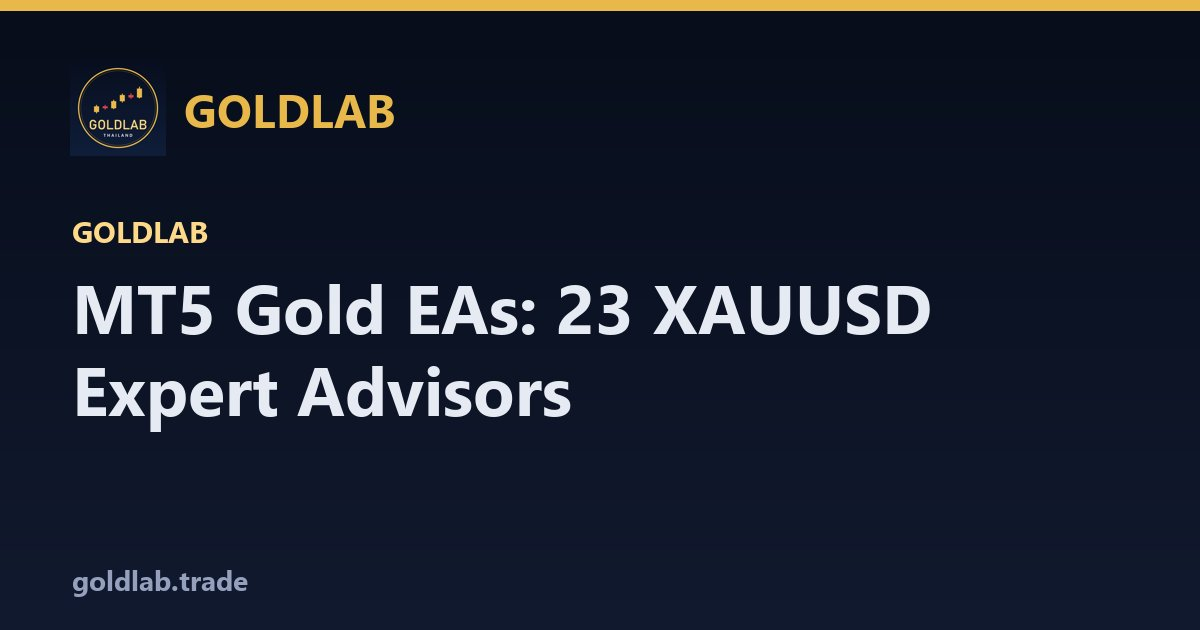
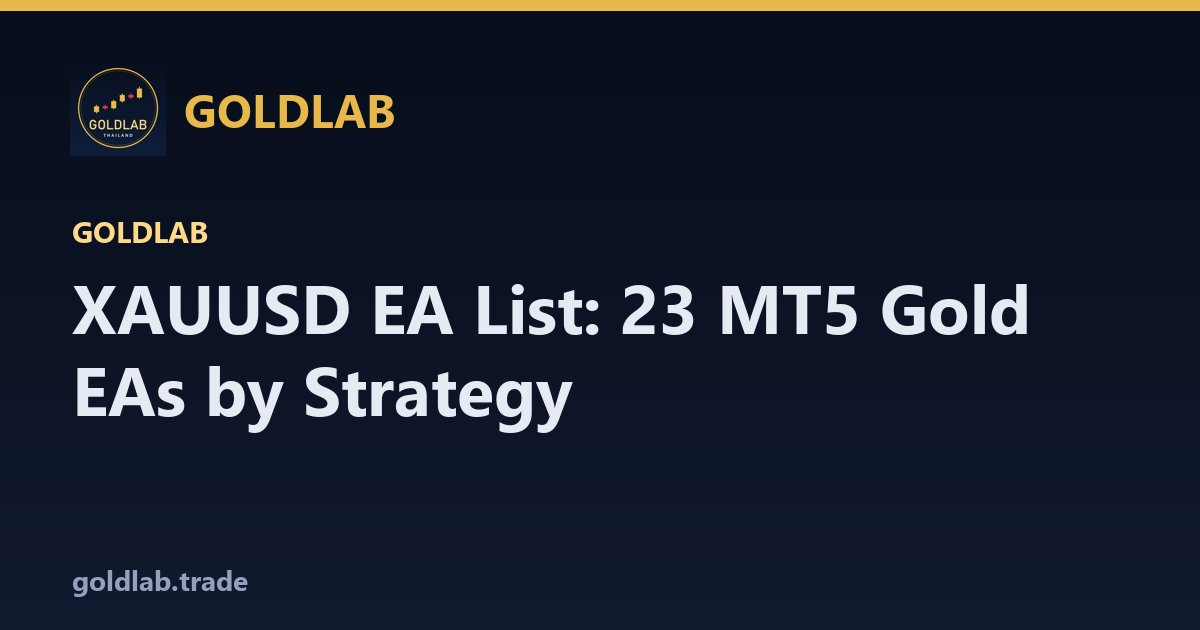
SEO: EA keywords in home titles (5 langs), EA hub titles, gold EA finder section + FAQ on /ea/

Changed region(s): [[0.0617, 0.4524, 0.8633, 0.5429], [0.0925, 0.573, 0.4933, 0.6937]]

diff --git a/ea/index.html b/ea/index.html
@@ -3,17 +3,17 @@
 <head>
 <meta charset="utf-8">
 <meta name="viewport" content="width=device-width, initial-scale=1">
-<title>MT5 Gold EAs: 23 XAUUSD Expert Advisors · GoldLab</title>
-<meta name="description" content="23 MetaTrader 5 Expert Advisors for gold (XAUUSD): breakout, trend-following and mean-reversion. Stop-loss on every trade, risk % sizing.">
-<meta property="og:title" content="MT5 Gold EAs: 23 XAUUSD Expert Advisors · GoldLab">
-<meta property="og:description" content="23 MetaTrader 5 Expert Advisors for gold (XAUUSD): breakout, trend-following and mean-reversion. Stop-loss on every trade, risk % sizing.">
+<title>XAUUSD EA List: 23 MT5 Gold EAs by Strategy · GoldLab</title>
+<meta name="description" content="23 XAUUSD EAs for MetaTrader 5: breakout, trend-following and mean-reversion gold EAs. Stop-loss on every trade, risk % sizing.">
+<meta property="og:title" content="XAUUSD EA List: 23 MT5 Gold EAs by Strategy · GoldLab">
+<meta property="og:description" content="23 XAUUSD EAs for MetaTrader 5: breakout, trend-following and mean-reversion gold EAs. Stop-loss on every trade, risk % sizing.">
 <meta property="og:image" content="https://goldlab.trade/assets/og/hub-ea.jpg">
 <meta name="twitter:card" content="summary_large_image">
 <meta property="og:url" content="https://goldlab.trade/ea/">
 <meta property="og:type" content="website">
 <meta property="og:site_name" content="GoldLab">
 <link rel="canonical" href="https://goldlab.trade/ea/">
-<script type="application/ld+json">[{"@context": "https://schema.org", "@type": "CollectionPage", "name": "MT5 Gold EAs: 23 XAUUSD Expert Advisors", "description": "23 MetaTrader 5 Expert Advisors for gold (XAUUSD): breakout, trend-following and mean-reversion. Stop-loss on every trade, risk % sizing.", "url": "https://goldlab.trade/ea/", "inLanguage": "en", "publisher": {"@type": "Organization", "name": "GoldLab", "url": "https://goldlab.trade/"}}, {"@context": "https://schema.org", "@type": "ItemList", "itemListElement": [{"@type": "ListItem", "position": 1, "url": "https://goldlab.trade/ea/london-breakout/", "name": "GoldLab London Breakout"}, {"@type": "ListItem", "position": 2, "url": "https://goldlab.trade/ea/ny-opening-range/", "name": "GoldLab NY Opening Range"}, {"@type": "ListItem", "position": 3, "url": "https://goldlab.trade/ea/bollinger-squeeze/", "name": "GoldLab Bollinger Squeeze"}, {"@type": "ListItem", "position": 4, "url": "https://goldlab.trade/ea/turtle-channel/", "name": "GoldLab Turtle Channel"}, {"@type": "ListItem", "position": 5, "url": "https://goldlab.trade/ea/inside-bar-hunter/", "name": "Inside Bar Hunter"}, {"@type": "ListItem", "position": 6, "url": "https://goldlab.trade/ea/alligator-fractal-rover/", "name": "Alligator Fractal Rover"}, {"@type": "ListItem", "position": 7, "url": "https://goldlab.trade/gold-ea/", "name": "GoldLab Multi Strategy"}, {"@type": "ListItem", "position": 8, "url": "https://goldlab.trade/gold-ea/", "name": "GoldLab Trend Pullback"}, {"@type": "ListItem", "position": 9, "url": "https://goldlab.trade/ea/supertrend-rider/", "name": "GoldLab Supertrend Rider"}, {"@type": "ListItem", "position": 10, "url": "https://goldlab.trade/ea/ichimoku-cloud/", "name": "GoldLab Ichimoku Cloud"}, {"@type": "ListItem", "position": 11, "url": "https://goldlab.trade/ea/macd-ribbon/", "name": "GoldLab MACD Ribbon"}, {"@type": "ListItem", "position": 12, "url": "https://goldlab.trade/ea/fibo-pullback/", "name": "GoldLab Fibo Pullback"}, {"@type": "ListItem", "position": 13, "url": "https://goldlab.trade/ea/stoch-hook-pilot/", "name": "Stoch Hook Pilot"}, {"@type": "ListItem", "position": 14, "url": "https://goldlab.trade/ea/sar-falcon/", "name": "SAR Falcon"}, {"@type": "ListItem", "position": 15, "url": "https://goldlab.trade/ea/heikin-titan/", "name": "Heikin Titan"}, {"@type": "ListItem", "position": 16, "url": "https://goldlab.trade/ea/cci-comet/", "name": "CCI Comet"}, {"@type": "ListItem", "position": 17, "url": "https://goldlab.trade/ea/engulf-striker/", "name": "Engulf Striker"}, {"@type": "ListItem", "position": 18, "url": "https://goldlab.trade/ea/triple-ema-arrow/", "name": "Triple EMA Arrow"}, {"@type": "ListItem", "position": 19, "url": "https://goldlab.trade/gold-ea/", "name": "GoldWick Candle Rejection"}, {"@type": "ListItem", "position": 20, "url": "https://goldlab.trade/ea/rsi-divergence/", "name": "GoldLab RSI Divergence"}, {"@type": "ListItem", "position": 21, "url": "https://goldlab.trade/ea/keltner-reversion/", "name": "GoldLab Keltner Reversion"}, {"@type": "ListItem", "position": 22, "url": "https://goldlab.trade/ea/vwap-magnet-reversion/", "name": "VWAP Magnet Reversion"}, {"@type": "ListItem", "position": 23, "url": "https://goldlab.trade/ea/pivot-sentinel/", "name": "Pivot Sentinel"}]}, {"@context": "https://schema.org", "@type": "BreadcrumbList", "itemListElement": [{"@type": "ListItem", "position": 1, "name": "GoldLab", "item": "https://goldlab.trade/"}, {"@type": "ListItem", "position": 2, "name": "EAs", "item": "https://goldlab.trade/ea/"}]}]</script>
+<script type="application/ld+json">[{"@context": "https://schema.org", "@type": "CollectionPage", "name": "XAUUSD EA List: 23 MT5 Gold EAs by Strategy", "description": "23 XAUUSD EAs for MetaTrader 5: breakout, trend-following and mean-reversion gold EAs. Stop-loss on every trade, risk % sizing.", "url": "https://goldlab.trade/ea/", "inLanguage": "en", "publisher": {"@type": "Organization", "name": "GoldLab", "url": "https://goldlab.trade/"}}, {"@context": "https://schema.org", "@type": "ItemList", "itemListElement": [{"@type": "ListItem", "position": 1, "url": "https://goldlab.trade/ea/london-breakout/", "name": "GoldLab London Breakout"}, {"@type": "ListItem", "position": 2, "url": "https://goldlab.trade/ea/ny-opening-range/", "name": "GoldLab NY Opening Range"}, {"@type": "ListItem", "position": 3, "url": "https://goldlab.trade/ea/bollinger-squeeze/", "name": "GoldLab Bollinger Squeeze"}, {"@type": "ListItem", "position": 4, "url": "https://goldlab.trade/ea/turtle-channel/", "name": "GoldLab Turtle Channel"}, {"@type": "ListItem", "position": 5, "url": "https://goldlab.trade/ea/inside-bar-hunter/", "name": "Inside Bar Hunter"}, {"@type": "ListItem", "position": 6, "url": "https://goldlab.trade/ea/alligator-fractal-rover/", "name": "Alligator Fractal Rover"}, {"@type": "ListItem", "position": 7, "url": "https://goldlab.trade/gold-ea/", "name": "GoldLab Multi Strategy"}, {"@type": "ListItem", "position": 8, "url": "https://goldlab.trade/gold-ea/", "name": "GoldLab Trend Pullback"}, {"@type": "ListItem", "position": 9, "url": "https://goldlab.trade/ea/supertrend-rider/", "name": "GoldLab Supertrend Rider"}, {"@type": "ListItem", "position": 10, "url": "https://goldlab.trade/ea/ichimoku-cloud/", "name": "GoldLab Ichimoku Cloud"}, {"@type": "ListItem", "position": 11, "url": "https://goldlab.trade/ea/macd-ribbon/", "name": "GoldLab MACD Ribbon"}, {"@type": "ListItem", "position": 12, "url": "https://goldlab.trade/ea/fibo-pullback/", "name": "GoldLab Fibo Pullback"}, {"@type": "ListItem", "position": 13, "url": "https://goldlab.trade/ea/stoch-hook-pilot/", "name": "Stoch Hook Pilot"}, {"@type": "ListItem", "position": 14, "url": "https://goldlab.trade/ea/sar-falcon/", "name": "SAR Falcon"}, {"@type": "ListItem", "position": 15, "url": "https://goldlab.trade/ea/heikin-titan/", "name": "Heikin Titan"}, {"@type": "ListItem", "position": 16, "url": "https://goldlab.trade/ea/cci-comet/", "name": "CCI Comet"}, {"@type": "ListItem", "position": 17, "url": "https://goldlab.trade/ea/engulf-striker/", "name": "Engulf Striker"}, {"@type": "ListItem", "position": 18, "url": "https://goldlab.trade/ea/triple-ema-arrow/", "name": "Triple EMA Arrow"}, {"@type": "ListItem", "position": 19, "url": "https://goldlab.trade/gold-ea/", "name": "GoldWick Candle Rejection"}, {"@type": "ListItem", "position": 20, "url": "https://goldlab.trade/ea/rsi-divergence/", "name": "GoldLab RSI Divergence"}, {"@type": "ListItem", "position": 21, "url": "https://goldlab.trade/ea/keltner-reversion/", "name": "GoldLab Keltner Reversion"}, {"@type": "ListItem", "position": 22, "url": "https://goldlab.trade/ea/vwap-magnet-reversion/", "name": "VWAP Magnet Reversion"}, {"@type": "ListItem", "position": 23, "url": "https://goldlab.trade/ea/pivot-sentinel/", "name": "Pivot Sentinel"}]}, {"@context": "https://schema.org", "@type": "FAQPage", "mainEntity": [{"@type": "Question", "name": "What is a gold EA?", "acceptedAnswer": {"@type": "Answer", "text": "A gold EA (Expert Advisor) is a program for MetaTrader that opens, manages and closes XAUUSD trades automatically from fixed rules, such as a breakout of the Asian range or a pullback in a trend."}}, {"@type": "Question", "name": "Do these XAUUSD EAs work on MT4?", "acceptedAnswer": {"@type": "Answer", "text": "No. GoldLab EAs are built for MetaTrader 5 (.ex5) only. Any MT5 broker that offers XAUUSD works, on a hedging or netting account."}}, {"@type": "Question", "name": "Do GoldLab gold EAs use martingale or grid?", "acceptedAnswer": {"@type": "Answer", "text": "No. Each trade has its own stop-loss, the lot size comes from your risk % or a fixed lot, and a daily loss limit stops trading for the day."}}, {"@type": "Question", "name": "Can I use a gold EA on a prop firm account?", "acceptedAnswer": {"@type": "Answer", "text": "The fixed stop-loss and daily loss limit make it possible to set the EA inside common prop firm rules, but every firm has its own rules on EAs, news trading and drawdown. Check them first and test on the firm's demo. No EA can guarantee passing a challenge."}}, {"@type": "Question", "name": "Which timeframe is best for a gold EA?", "acceptedAnswer": {"@type": "Answer", "text": "It depends on the strategy: scalping and session breakouts use M1 to M15, most trend and reversion EAs here use H1, and swing systems use H4. Each EA page lists its recommended timeframe."}}, {"@type": "Question", "name": "Is there a free gold EA demo?", "acceptedAnswer": {"@type": "Answer", "text": "Yes. MQL5 Market products have a free demo you can run in the MT5 Strategy Tester on your broker's own XAUUSD data before buying."}}, {"@type": "Question", "name": "Do I need a VPS to run an EA?", "acceptedAnswer": {"@type": "Answer", "text": "An EA only trades while MetaTrader 5 is open and connected, so a VPS close to your broker's server is recommended for 24/5 running."}}]}, {"@context": "https://schema.org", "@type": "BreadcrumbList", "itemListElement": [{"@type": "ListItem", "position": 1, "name": "GoldLab", "item": "https://goldlab.trade/"}, {"@type": "ListItem", "position": 2, "name": "EAs", "item": "https://goldlab.trade/ea/"}]}]</script>
 <meta name="theme-color" content="#070d1a">
 <meta name="google-site-verification" content="AoyS69iYM0KUBS375ShKPWs4FY5b3LdPtCelTJK63AM" />
 <link rel="alternate" hreflang="en" href="https://goldlab.trade/ea/">
@@ -53,6 +53,33 @@
   <li><b>Trend-following</b> EAs aim to stay in larger moves and trail the stop; they struggle in ranges.</li>
   <li><b>Mean-reversion</b> EAs trade back toward an average in quiet markets and stand aside in strong trends.</li></ul>
   <p>Running two different styles can spread trades across market conditions - use a different magic number for each. Test any EA in the Strategy Tester with your broker's data, then on a demo account. Related: <a href="../learn/best-timeframe-gold-trading/">best timeframe for gold trading</a>, <a href="../learn/one-percent-rule-gold/">the 1% risk rule</a>, <a href="../tools/gold-lot-size-calculator/">XAUUSD lot size calculator</a>.</p>
+  <h2>Find a gold EA by what you need</h2>
+  <ul>
+  <li><b>Gold scalping EA (M1-M5):</b> the <a href="../gold-ea/">GoldLab Multi Strategy EA</a> runs five strategies from M1 to H1, and the <a href="../ea/ny-opening-range/">NY opening range breakout EA</a> signals on M5.</li>
+  <li><b>XAUUSD breakout EA:</b> <a href="../ea/london-breakout/">London breakout EA</a>, <a href="../ea/bollinger-squeeze/">Bollinger squeeze EA</a>, <a href="../ea/turtle-channel/">turtle trading EA</a> and <a href="../ea/inside-bar-hunter/">inside bar EA</a>.</li>
+  <li><b>Gold trend following EA:</b> <a href="../ea/supertrend-rider/">Supertrend EA</a>, <a href="../ea/ichimoku-cloud/">Ichimoku EA</a>, <a href="../ea/macd-ribbon/">MACD EA</a>, <a href="../ea/triple-ema-arrow/">EMA crossover EA</a> and <a href="../ea/sar-falcon/">Parabolic SAR EA</a>.</li>
+  <li><b>Mean reversion EA for gold:</b> <a href="../ea/keltner-reversion/">Keltner channel EA</a>, <a href="../ea/vwap-magnet-reversion/">VWAP EA</a>, <a href="../ea/rsi-divergence/">RSI divergence EA</a> and <a href="../ea/pivot-sentinel/">pivot point EA</a>.</li>
+  <li><b>Indicator-based gold EAs:</b> <a href="../ea/stoch-hook-pilot/">Stochastic EA</a>, <a href="../ea/cci-comet/">CCI EA</a>, <a href="../ea/fibo-pullback/">Fibonacci EA</a>, <a href="../ea/heikin-titan/">Heikin Ashi EA</a>, <a href="../ea/engulf-striker/">engulfing candle EA</a> and <a href="../ea/alligator-fractal-rover/">Alligator EA</a>.</li>
+  <li><b>Swing trading gold EA (H4-D1):</b> <a href="../ea/turtle-channel/">turtle trading EA</a> and <a href="../ea/ichimoku-cloud/">Ichimoku EA</a> on H4.</li>
+  <li><b>No martingale, no grid gold EA:</b> every GoldLab EA - a stop-loss on every order, risk % lot sizing and a daily loss limit.</li>
+  </ul>
+  <section class="faq">
+    <h2>Gold EA FAQ</h2>
+    <h3>What is a gold EA?</h3>
+    <p>A gold EA (Expert Advisor) is a program for MetaTrader that opens, manages and closes XAUUSD trades automatically from fixed rules, such as a breakout of the Asian range or a pullback in a trend.</p>
+    <h3>Do these XAUUSD EAs work on MT4?</h3>
+    <p>No. GoldLab EAs are built for MetaTrader 5 (.ex5) only. Any MT5 broker that offers XAUUSD works, on a hedging or netting account.</p>
+    <h3>Do GoldLab gold EAs use martingale or grid?</h3>
+    <p>No. Each trade has its own stop-loss, the lot size comes from your risk % or a fixed lot, and a daily loss limit stops trading for the day.</p>
+    <h3>Can I use a gold EA on a prop firm account?</h3>
+    <p>The fixed stop-loss and daily loss limit make it possible to set the EA inside common prop firm rules, but every firm has its own rules on EAs, news trading and drawdown. Check them first and test on the firm's demo. No EA can guarantee passing a challenge.</p>
+    <h3>Which timeframe is best for a gold EA?</h3>
+    <p>It depends on the strategy: scalping and session breakouts use M1 to M15, most trend and reversion EAs here use H1, and swing systems use H4. Each EA page lists its recommended timeframe.</p>
+    <h3>Is there a free gold EA demo?</h3>
+    <p>Yes. MQL5 Market products have a free demo you can run in the MT5 Strategy Tester on your broker's own XAUUSD data before buying.</p>
+    <h3>Do I need a VPS to run an EA?</h3>
+    <p>An EA only trades while MetaTrader 5 is open and connected, so a VPS close to your broker's server is recommended for 24/5 running.</p>
+  </section>
   <p class="note-small">No trading system wins every trade, and past or backtested results do not guarantee future results. Trading gold and CFDs is high risk and you can lose your capital.</p></article>
 </div></main>
 

diff --git a/th/index.html b/th/index.html
@@ -3,17 +3,17 @@
 <head>
 <meta charset="utf-8">
 <meta name="viewport" content="width=device-width, initial-scale=1">
-<title>GoldLab · แนวรับแนวต้านทองคำ XAUUSD รายวัน และบทเรียนเทรดทอง</title>
-<meta name="description" content="ระดับ Pivot ทองคำ (XAUUSD) รายวัน คำนวณจากข้อมูลราคาจริง พร้อมบทเรียนฟรีเรื่องการอ่านกราฟและบริหารความเสี่ยง เพื่อการศึกษา ไม่ใช่สัญญาณเทรด">
-<meta property="og:title" content="GoldLab · แนวรับแนวต้านทองคำ XAUUSD รายวัน และบทเรียนเทรดทอง">
-<meta property="og:description" content="ระดับ Pivot ทองคำ (XAUUSD) รายวัน คำนวณจากข้อมูลราคาจริง พร้อมบทเรียนฟรีเรื่องการอ่านกราฟและบริหารความเสี่ยง เพื่อการศึกษา ไม่ใช่สัญญาณเทรด">
+<title>GoldLab · EA เทรดทอง MT5 และแนวรับแนวต้าน XAUUSD รายวัน</title>
+<meta name="description" content="EA เทรดทองคำ (XAUUSD) สำหรับ MetaTrader 5 จาก GoldLab ตั้ง Stop Loss ทุกออเดอร์ พร้อมแนวรับแนวต้านทองรายวันและบทเรียนบริหารความเสี่ยงฟรี ไม่ใช่สัญญาณเทรด">
+<meta property="og:title" content="GoldLab · EA เทรดทอง MT5 และแนวรับแนวต้าน XAUUSD รายวัน">
+<meta property="og:description" content="EA เทรดทองคำ (XAUUSD) สำหรับ MetaTrader 5 จาก GoldLab ตั้ง Stop Loss ทุกออเดอร์ พร้อมแนวรับแนวต้านทองรายวันและบทเรียนบริหารความเสี่ยงฟรี ไม่ใช่สัญญาณเทรด">
 <meta property="og:image" content="https://goldlab.trade/assets/logo.png">
 <meta name="twitter:card" content="summary_large_image">
 <meta property="og:url" content="https://goldlab.trade/th/">
 <meta property="og:type" content="website">
 <meta property="og:site_name" content="GoldLab">
 <link rel="canonical" href="https://goldlab.trade/th/">
-<script type="application/ld+json">[{"@context": "https://schema.org", "@type": "WebSite", "name": "GoldLab", "url": "https://goldlab.trade/", "inLanguage": "th", "description": "ระดับ Pivot ทองคำ (XAUUSD) รายวัน คำนวณจากข้อมูลราคาจริง พร้อมบทเรียนฟรีเรื่องการอ่านกราฟและบริหารความเสี่ยง เพื่อการศึกษา ไม่ใช่สัญญาณเทรด"}, {"@context": "https://schema.org", "@type": "Organization", "name": "GoldLab", "url": "https://goldlab.trade/", "logo": "https://goldlab.trade/assets/logo.png", "sameAs": ["https://www.facebook.com/profile.php?id=61595254621291", "https://line.me/R/ti/p/@065qwjtk"]}]</script>
+<script type="application/ld+json">[{"@context": "https://schema.org", "@type": "WebSite", "name": "GoldLab", "url": "https://goldlab.trade/", "inLanguage": "th", "description": "EA เทรดทองคำ (XAUUSD) สำหรับ MetaTrader 5 จาก GoldLab ตั้ง Stop Loss ทุกออเดอร์ พร้อมแนวรับแนวต้านทองรายวันและบทเรียนบริหารความเสี่ยงฟรี ไม่ใช่สัญญาณเทรด"}, {"@context": "https://schema.org", "@type": "Organization", "name": "GoldLab", "url": "https://goldlab.trade/", "logo": "https://goldlab.trade/assets/logo.png", "sameAs": ["https://www.facebook.com/profile.php?id=61595254621291", "https://line.me/R/ti/p/@065qwjtk"]}]</script>
 <meta name="theme-color" content="#070d1a">
 <meta name="google-site-verification" content="AoyS69iYM0KUBS375ShKPWs4FY5b3LdPtCelTJK63AM" />
 <link rel="alternate" hreflang="en" href="https://goldlab.trade/">
@@ -53,7 +53,7 @@
     <div>
       <span class="eyebrow">อัปเดตทุกวันทำการ</span>
       <h1>อ่านกราฟทองคำ <em>บริหารความเสี่ยงให้เป็น</em></h1>
-      <p class="lead">GoldLab เผยแพร่แนวรับแนวต้านทองคำ XAUUSD ทุกวัน คำนวณจากข้อมูลราคาจริง และสอนว่าเทรดเดอร์ใช้ระดับราคาเหล่านี้อย่างไร ไม่โอ้อวด ไม่ให้สัญญาณ ไม่สัญญาผลกำไร</p>
+      <p class="lead">GoldLab เผยแพร่แนวรับแนวต้านทองคำ XAUUSD ทุกวัน คำนวณจากข้อมูลราคาจริง และสอนว่าเทรดเดอร์ใช้ระดับราคาเหล่านี้อย่างไร ไม่โอ้อวด ไม่ให้สัญญาณ ไม่สัญญาผลกำไร และพัฒนา EA เทรดทอง MT5 (XAUUSD) ที่ตั้ง Stop Loss ทุกออเดอร์</p>
       <div class="cta">
         <a class="btn btn-gold" href="#levels">ดูระดับราคาวันนี้ →</a>
         <a class="btn btn-ghost" href="#lessons">เริ่มเรียน</a>

diff --git a/vi/index.html b/vi/index.html
@@ -3,17 +3,17 @@
 <head>
 <meta charset="utf-8">
 <meta name="viewport" content="width=device-width, initial-scale=1">
-<title>GoldLab · Mức giá XAUUSD hằng ngày &amp; bài học giao dịch vàng</title>
-<meta name="description" content="Các mức pivot vàng (XAUUSD) hằng ngày tính từ dữ liệu thị trường thực, cùng bài học miễn phí về đọc biểu đồ và quản lý rủi ro. Chỉ mang tính giáo dục, không phải tín hiệu.">
-<meta property="og:title" content="GoldLab · Mức giá XAUUSD hằng ngày &amp; bài học giao dịch vàng">
-<meta property="og:description" content="Các mức pivot vàng (XAUUSD) hằng ngày tính từ dữ liệu thị trường thực, cùng bài học miễn phí về đọc biểu đồ và quản lý rủi ro. Chỉ mang tính giáo dục, không phải tín hiệu.">
+<title>GoldLab: EA vàng MT5 &amp; mức giá XAUUSD hằng ngày</title>
+<meta name="description" content="EA vàng cho MetaTrader 5 (Expert Advisor XAUUSD) đặt stop-loss cho mọi lệnh, cùng các mức pivot vàng hằng ngày và bài học quản lý rủi ro miễn phí. Không phải tín hiệu.">
+<meta property="og:title" content="GoldLab: EA vàng MT5 &amp; mức giá XAUUSD hằng ngày">
+<meta property="og:description" content="EA vàng cho MetaTrader 5 (Expert Advisor XAUUSD) đặt stop-loss cho mọi lệnh, cùng các mức pivot vàng hằng ngày và bài học quản lý rủi ro miễn phí. Không phải tín hiệu.">
 <meta property="og:image" content="https://goldlab.trade/assets/logo.png">
 <meta name="twitter:card" content="summary_large_image">
 <meta property="og:url" content="https://goldlab.trade/vi/">
 <meta property="og:type" content="website">
 <meta property="og:site_name" content="GoldLab">
 <link rel="canonical" href="https://goldlab.trade/vi/">
-<script type="application/ld+json">[{"@context": "https://schema.org", "@type": "WebSite", "name": "GoldLab", "url": "https://goldlab.trade/", "inLanguage": "vi", "description": "Các mức pivot vàng (XAUUSD) hằng ngày tính từ dữ liệu thị trường thực, cùng bài học miễn phí về đọc biểu đồ và quản lý rủi ro. Chỉ mang tính giáo dục, không phải tín hiệu."}, {"@context": "https://schema.org", "@type": "Organization", "name": "GoldLab", "url": "https://goldlab.trade/", "logo": "https://goldlab.trade/assets/logo.png", "sameAs": ["https://www.facebook.com/profile.php?id=61595254621291", "https://line.me/R/ti/p/@065qwjtk"]}]</script>
+<script type="application/ld+json">[{"@context": "https://schema.org", "@type": "WebSite", "name": "GoldLab", "url": "https://goldlab.trade/", "inLanguage": "vi", "description": "EA vàng cho MetaTrader 5 (Expert Advisor XAUUSD) đặt stop-loss cho mọi lệnh, cùng các mức pivot vàng hằng ngày và bài học quản lý rủi ro miễn phí. Không phải tín hiệu."}, {"@context": "https://schema.org", "@type": "Organization", "name": "GoldLab", "url": "https://goldlab.trade/", "logo": "https://goldlab.trade/assets/logo.png", "sameAs": ["https://www.facebook.com/profile.php?id=61595254621291", "https://line.me/R/ti/p/@065qwjtk"]}]</script>
 <meta name="theme-color" content="#070d1a">
 <meta name="google-site-verification" content="AoyS69iYM0KUBS375ShKPWs4FY5b3LdPtCelTJK63AM" />
 <link rel="alternate" hreflang="en" href="https://goldlab.trade/">
@@ -53,7 +53,7 @@
     <div>
       <span class="eyebrow">Cập nhật mỗi ngày giao dịch</span>
       <h1>Đọc biểu đồ vàng. <em>Quản lý rủi ro.</em></h1>
-      <p class="lead">GoldLab công bố các mức hỗ trợ và kháng cự XAUUSD hằng ngày, tính từ dữ liệu thị trường thực, và hướng dẫn cách nhà giao dịch sử dụng chúng. Không thổi phồng, không tín hiệu, không hứa hẹn.</p>
+      <p class="lead">GoldLab công bố các mức hỗ trợ và kháng cự XAUUSD hằng ngày, tính từ dữ liệu thị trường thực, và hướng dẫn cách nhà giao dịch sử dụng chúng. Không thổi phồng, không tín hiệu, không hứa hẹn. Chúng tôi cũng phát triển EA vàng MT5 (XAUUSD) đặt stop-loss cho mọi lệnh.</p>
       <div class="cta">
         <a class="btn btn-gold" href="#levels">Xem mức giá hôm nay →</a>
         <a class="btn btn-ghost" href="#lessons">Bắt đầu học</a>

diff --git a/es/index.html b/es/index.html
@@ -3,17 +3,17 @@
 <head>
 <meta charset="utf-8">
 <meta name="viewport" content="width=device-width, initial-scale=1">
-<title>GoldLab · Niveles diarios de XAUUSD y lecciones de trading de oro</title>
-<meta name="description" content="Niveles pivote diarios del oro (XAUUSD) calculados con datos reales del mercado, y lecciones gratuitas sobre lectura de gráficos y gestión del riesgo. Solo educación, sin señales.">
-<meta property="og:title" content="GoldLab · Niveles diarios de XAUUSD y lecciones de trading de oro">
-<meta property="og:description" content="Niveles pivote diarios del oro (XAUUSD) calculados con datos reales del mercado, y lecciones gratuitas sobre lectura de gráficos y gestión del riesgo. Solo educación, sin señales.">
+<title>GoldLab: EA de oro para MT5 y niveles diarios de XAUUSD</title>
+<meta name="description" content="EAs de oro para MetaTrader 5 (asesores expertos XAUUSD) con stop-loss en cada operación, más niveles pivote diarios del oro y lecciones de riesgo gratis. Sin señales.">
+<meta property="og:title" content="GoldLab: EA de oro para MT5 y niveles diarios de XAUUSD">
+<meta property="og:description" content="EAs de oro para MetaTrader 5 (asesores expertos XAUUSD) con stop-loss en cada operación, más niveles pivote diarios del oro y lecciones de riesgo gratis. Sin señales.">
 <meta property="og:image" content="https://goldlab.trade/assets/logo.png">
 <meta name="twitter:card" content="summary_large_image">
 <meta property="og:url" content="https://goldlab.trade/es/">
 <meta property="og:type" content="website">
 <meta property="og:site_name" content="GoldLab">
 <link rel="canonical" href="https://goldlab.trade/es/">
-<script type="application/ld+json">[{"@context": "https://schema.org", "@type": "WebSite", "name": "GoldLab", "url": "https://goldlab.trade/", "inLanguage": "es", "description": "Niveles pivote diarios del oro (XAUUSD) calculados con datos reales del mercado, y lecciones gratuitas sobre lectura de gráficos y gestión del riesgo. Solo educación, sin señales."}, {"@context": "https://schema.org", "@type": "Organization", "name": "GoldLab", "url": "https://goldlab.trade/", "logo": "https://goldlab.trade/assets/logo.png", "sameAs": ["https://www.facebook.com/profile.php?id=61595254621291", "https://line.me/R/ti/p/@065qwjtk"]}]</script>
+<script type="application/ld+json">[{"@context": "https://schema.org", "@type": "WebSite", "name": "GoldLab", "url": "https://goldlab.trade/", "inLanguage": "es", "description": "EAs de oro para MetaTrader 5 (asesores expertos XAUUSD) con stop-loss en cada operación, más niveles pivote diarios del oro y lecciones de riesgo gratis. Sin señales."}, {"@context": "https://schema.org", "@type": "Organization", "name": "GoldLab", "url": "https://goldlab.trade/", "logo": "https://goldlab.trade/assets/logo.png", "sameAs": ["https://www.facebook.com/profile.php?id=61595254621291", "https://line.me/R/ti/p/@065qwjtk"]}]</script>
 <meta name="theme-color" content="#070d1a">
 <meta name="google-site-verification" content="AoyS69iYM0KUBS375ShKPWs4FY5b3LdPtCelTJK63AM" />
 <link rel="alternate" hreflang="en" href="https://goldlab.trade/">
@@ -53,7 +53,7 @@
     <div>
       <span class="eyebrow">Actualizado cada día hábil</span>
       <h1>Lee el gráfico del oro. <em>Gestiona el riesgo.</em></h1>
-      <p class="lead">GoldLab publica cada día los soportes y resistencias de XAUUSD calculados con datos reales del mercado, y enseña cómo los usan los traders. Sin exageraciones, sin señales, sin promesas.</p>
+      <p class="lead">GoldLab publica cada día los soportes y resistencias de XAUUSD calculados con datos reales del mercado, y enseña cómo los usan los traders. Sin exageraciones, sin señales, sin promesas. También creamos EAs de oro para MT5 (XAUUSD) con stop-loss en cada operación.</p>
       <div class="cta">
         <a class="btn btn-gold" href="#levels">Ver los niveles de hoy →</a>
         <a class="btn btn-ghost" href="#lessons">Empezar a aprender</a>

diff --git a/id/index.html b/id/index.html
@@ -3,17 +3,17 @@
 <head>
 <meta charset="utf-8">
 <meta name="viewport" content="width=device-width, initial-scale=1">
-<title>GoldLab · Level XAUUSD harian &amp; pelajaran trading emas</title>
-<meta name="description" content="Level pivot emas (XAUUSD) harian yang dihitung dari data pasar nyata, plus pelajaran gratis membaca grafik dan mengelola risiko. Hanya edukasi, bukan sinyal.">
-<meta property="og:title" content="GoldLab · Level XAUUSD harian &amp; pelajaran trading emas">
-<meta property="og:description" content="Level pivot emas (XAUUSD) harian yang dihitung dari data pasar nyata, plus pelajaran gratis membaca grafik dan mengelola risiko. Hanya edukasi, bukan sinyal.">
+<title>GoldLab: EA Emas MT5 &amp; Level XAUUSD Harian</title>
+<meta name="description" content="EA emas untuk MetaTrader 5 (Expert Advisor XAUUSD) dengan stop-loss di setiap transaksi, plus level pivot emas harian dan pelajaran risiko gratis. Bukan sinyal.">
+<meta property="og:title" content="GoldLab: EA Emas MT5 &amp; Level XAUUSD Harian">
+<meta property="og:description" content="EA emas untuk MetaTrader 5 (Expert Advisor XAUUSD) dengan stop-loss di setiap transaksi, plus level pivot emas harian dan pelajaran risiko gratis. Bukan sinyal.">
 <meta property="og:image" content="https://goldlab.trade/assets/logo.png">
 <meta name="twitter:card" content="summary_large_image">
 <meta property="og:url" content="https://goldlab.trade/id/">
 <meta property="og:type" content="website">
 <meta property="og:site_name" content="GoldLab">
 <link rel="canonical" href="https://goldlab.trade/id/">
-<script type="application/ld+json">[{"@context": "https://schema.org", "@type": "WebSite", "name": "GoldLab", "url": "https://goldlab.trade/", "inLanguage": "id", "description": "Level pivot emas (XAUUSD) harian yang dihitung dari data pasar nyata, plus pelajaran gratis membaca grafik dan mengelola risiko. Hanya edukasi, bukan sinyal."}, {"@context": "https://schema.org", "@type": "Organization", "name": "GoldLab", "url": "https://goldlab.trade/", "logo": "https://goldlab.trade/assets/logo.png", "sameAs": ["https://www.facebook.com/profile.php?id=61595254621291", "https://line.me/R/ti/p/@065qwjtk"]}]</script>
+<script type="application/ld+json">[{"@context": "https://schema.org", "@type": "WebSite", "name": "GoldLab", "url": "https://goldlab.trade/", "inLanguage": "id", "description": "EA emas untuk MetaTrader 5 (Expert Advisor XAUUSD) dengan stop-loss di setiap transaksi, plus level pivot emas harian dan pelajaran risiko gratis. Bukan sinyal."}, {"@context": "https://schema.org", "@type": "Organization", "name": "GoldLab", "url": "https://goldlab.trade/", "logo": "https://goldlab.trade/assets/logo.png", "sameAs": ["https://www.facebook.com/profile.php?id=61595254621291", "https://line.me/R/ti/p/@065qwjtk"]}]</script>
 <meta name="theme-color" content="#070d1a">
 <meta name="google-site-verification" content="AoyS69iYM0KUBS375ShKPWs4FY5b3LdPtCelTJK63AM" />
 <link rel="alternate" hreflang="en" href="https://goldlab.trade/">
@@ -53,7 +53,7 @@
     <div>
       <span class="eyebrow">Diperbarui setiap hari perdagangan</span>
       <h1>Baca grafik emas. <em>Kelola risikonya.</em></h1>
-      <p class="lead">GoldLab menerbitkan level support dan resistance XAUUSD setiap hari dari data pasar nyata, dan mengajarkan cara trader menggunakannya. Tanpa sensasi, tanpa sinyal, tanpa janji.</p>
+      <p class="lead">GoldLab menerbitkan level support dan resistance XAUUSD setiap hari dari data pasar nyata, dan mengajarkan cara trader menggunakannya. Tanpa sensasi, tanpa sinyal, tanpa janji. Kami juga membuat EA emas MT5 (XAUUSD) dengan stop-loss di setiap transaksi.</p>
       <div class="cta">
         <a class="btn btn-gold" href="#levels">Lihat level hari ini →</a>
         <a class="btn btn-ghost" href="#lessons">Mulai belajar</a>

diff --git a/index.html b/index.html
@@ -3,17 +3,17 @@
 <head>
 <meta charset="utf-8">
 <meta name="viewport" content="width=device-width, initial-scale=1">
-<title>GoldLab · Daily XAUUSD levels &amp; gold trading lessons</title>
-<meta name="description" content="Daily gold (XAUUSD) pivot levels calculated from real market data, plus free lessons on reading charts and managing risk. Education only, no signals.">
-<meta property="og:title" content="GoldLab · Daily XAUUSD levels &amp; gold trading lessons">
-<meta property="og:description" content="Daily gold (XAUUSD) pivot levels calculated from real market data, plus free lessons on reading charts and managing risk. Education only, no signals.">
+<title>GoldLab: Gold EA for MT5 &amp; Daily XAUUSD Levels</title>
+<meta name="description" content="GoldLab gold EAs for MetaTrader 5 (XAUUSD Expert Advisors) with a stop-loss on every trade, plus daily gold pivot levels and free risk lessons. No signals.">
+<meta property="og:title" content="GoldLab: Gold EA for MT5 &amp; Daily XAUUSD Levels">
+<meta property="og:description" content="GoldLab gold EAs for MetaTrader 5 (XAUUSD Expert Advisors) with a stop-loss on every trade, plus daily gold pivot levels and free risk lessons. No signals.">
 <meta property="og:image" content="https://goldlab.trade/assets/logo.png">
 <meta name="twitter:card" content="summary_large_image">
 <meta property="og:url" content="https://goldlab.trade/">
 <meta property="og:type" content="website">
 <meta property="og:site_name" content="GoldLab">
 <link rel="canonical" href="https://goldlab.trade/">
-<script type="application/ld+json">[{"@context": "https://schema.org", "@type": "WebSite", "name": "GoldLab", "url": "https://goldlab.trade/", "inLanguage": "en", "description": "Daily gold (XAUUSD) pivot levels calculated from real market data, plus free lessons on reading charts and managing risk. Education only, no signals."}, {"@context": "https://schema.org", "@type": "Organization", "name": "GoldLab", "url": "https://goldlab.trade/", "logo": "https://goldlab.trade/assets/logo.png", "sameAs": ["https://www.facebook.com/profile.php?id=61595254621291", "https://line.me/R/ti/p/@065qwjtk"]}]</script>
+<script type="application/ld+json">[{"@context": "https://schema.org", "@type": "WebSite", "name": "GoldLab", "url": "https://goldlab.trade/", "inLanguage": "en", "description": "GoldLab gold EAs for MetaTrader 5 (XAUUSD Expert Advisors) with a stop-loss on every trade, plus daily gold pivot levels and free risk lessons. No signals."}, {"@context": "https://schema.org", "@type": "Organization", "name": "GoldLab", "url": "https://goldlab.trade/", "logo": "https://goldlab.trade/assets/logo.png", "sameAs": ["https://www.facebook.com/profile.php?id=61595254621291", "https://line.me/R/ti/p/@065qwjtk"]}]</script>
 <meta name="theme-color" content="#070d1a">
 <meta name="google-site-verification" content="AoyS69iYM0KUBS375ShKPWs4FY5b3LdPtCelTJK63AM" />
 <link rel="alternate" hreflang="en" href="https://goldlab.trade/">
@@ -53,7 +53,7 @@
     <div>
       <span class="eyebrow">Updated every trading day</span>
       <h1>Read the gold chart. <em>Manage the risk.</em></h1>
-      <p class="lead">GoldLab publishes daily XAUUSD support and resistance levels calculated from real market data, and teaches you how traders actually use them. No hype, no signals, no promises.</p>
+      <p class="lead">GoldLab publishes daily XAUUSD support and resistance levels calculated from real market data, and teaches you how traders actually use them. No hype, no signals, no promises. We also build MT5 gold EAs (XAUUSD Expert Advisors) that put a stop-loss on every trade.</p>
       <div class="cta">
         <a class="btn btn-gold" href="#levels">See today's levels →</a>
         <a class="btn btn-ghost" href="#lessons">Start learning</a>

diff --git a/gold-ea/index.html b/gold-ea/index.html
@@ -3,17 +3,17 @@
 <head>
 <meta charset="utf-8">
 <meta name="viewport" content="width=device-width, initial-scale=1">
-<title>Gold EAs for MetaTrader 5 (XAUUSD) · GoldLab</title>
-<meta name="description" content="Three MT5 Expert Advisors for gold: Multi Strategy, Trend Pullback and GoldWick. Stop-loss on every trade, risk % sizing, free demo on MQL5.">
-<meta property="og:title" content="Gold EAs for MetaTrader 5 (XAUUSD) · GoldLab">
-<meta property="og:description" content="Three MT5 Expert Advisors for gold: Multi Strategy, Trend Pullback and GoldWick. Stop-loss on every trade, risk % sizing, free demo on MQL5.">
+<title>Gold EA for MT5: GoldLab XAUUSD Expert Advisors</title>
+<meta name="description" content="Gold EA for MT5: Multi Strategy, Trend Pullback and GoldWick XAUUSD Expert Advisors. Stop-loss on every trade, risk % sizing, free demo on MQL5.">
+<meta property="og:title" content="Gold EA for MT5: GoldLab XAUUSD Expert Advisors">
+<meta property="og:description" content="Gold EA for MT5: Multi Strategy, Trend Pullback and GoldWick XAUUSD Expert Advisors. Stop-loss on every trade, risk % sizing, free demo on MQL5.">
 <meta property="og:image" content="https://goldlab.trade/assets/logo.png">
 <meta name="twitter:card" content="summary_large_image">
 <meta property="og:url" content="https://goldlab.trade/gold-ea/">
 <meta property="og:type" content="article">
 <meta property="og:site_name" content="GoldLab">
 <link rel="canonical" href="https://goldlab.trade/gold-ea/">
-<script type="application/ld+json">[{"@context": "https://schema.org", "@type": "WebPage", "name": "Gold EAs for MetaTrader 5 (XAUUSD)", "description": "Three MT5 Expert Advisors for gold: Multi Strategy, Trend Pullback and GoldWick. Stop-loss on every trade, risk % sizing, free demo on MQL5.", "url": "https://goldlab.trade/gold-ea/", "inLanguage": "en", "publisher": {"@type": "Organization", "name": "GoldLab", "url": "https://goldlab.trade/"}}, {"@context": "https://schema.org", "@type": "BreadcrumbList", "itemListElement": [{"@type": "ListItem", "position": 1, "name": "GoldLab", "item": "https://goldlab.trade/"}, {"@type": "ListItem", "position": 2, "name": "Gold EAs for MetaTrader 5 (XAUUSD)", "item": "https://goldlab.trade/gold-ea/"}]}]</script>
+<script type="application/ld+json">[{"@context": "https://schema.org", "@type": "WebPage", "name": "Gold EA for MT5: GoldLab XAUUSD Expert Advisors", "description": "Gold EA for MT5: Multi Strategy, Trend Pullback and GoldWick XAUUSD Expert Advisors. Stop-loss on every trade, risk % sizing, free demo on MQL5.", "url": "https://goldlab.trade/gold-ea/", "inLanguage": "en", "publisher": {"@type": "Organization", "name": "GoldLab", "url": "https://goldlab.trade/"}}, {"@context": "https://schema.org", "@type": "BreadcrumbList", "itemListElement": [{"@type": "ListItem", "position": 1, "name": "GoldLab", "item": "https://goldlab.trade/"}, {"@type": "ListItem", "position": 2, "name": "Gold EA for MT5: GoldLab XAUUSD Expert Advisors", "item": "https://goldlab.trade/gold-ea/"}]}]</script>
 <meta name="theme-color" content="#070d1a">
 <meta name="google-site-verification" content="AoyS69iYM0KUBS375ShKPWs4FY5b3LdPtCelTJK63AM" />
 <link rel="alternate" hreflang="en" href="https://goldlab.trade/gold-ea/">
